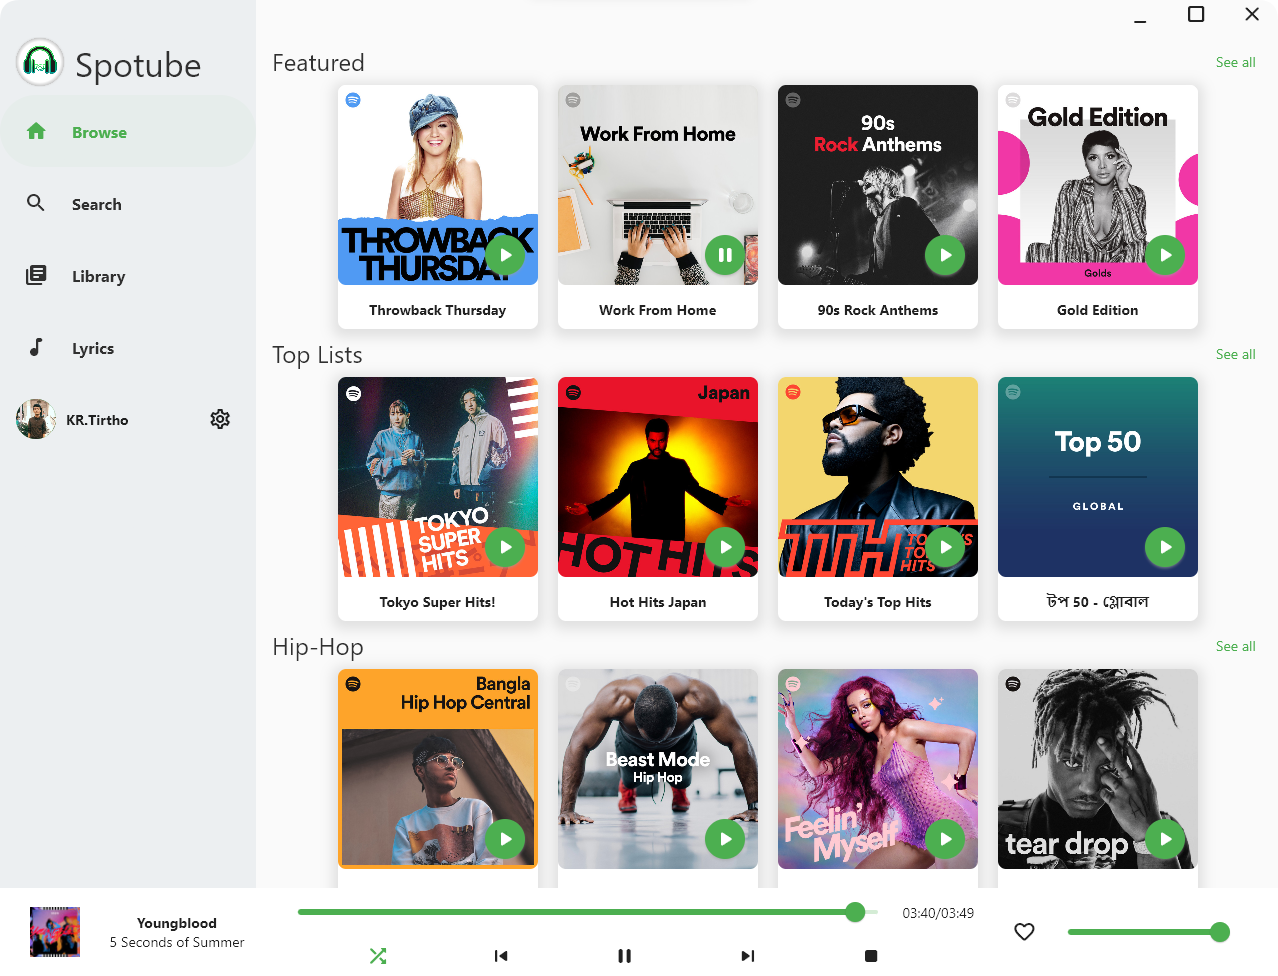
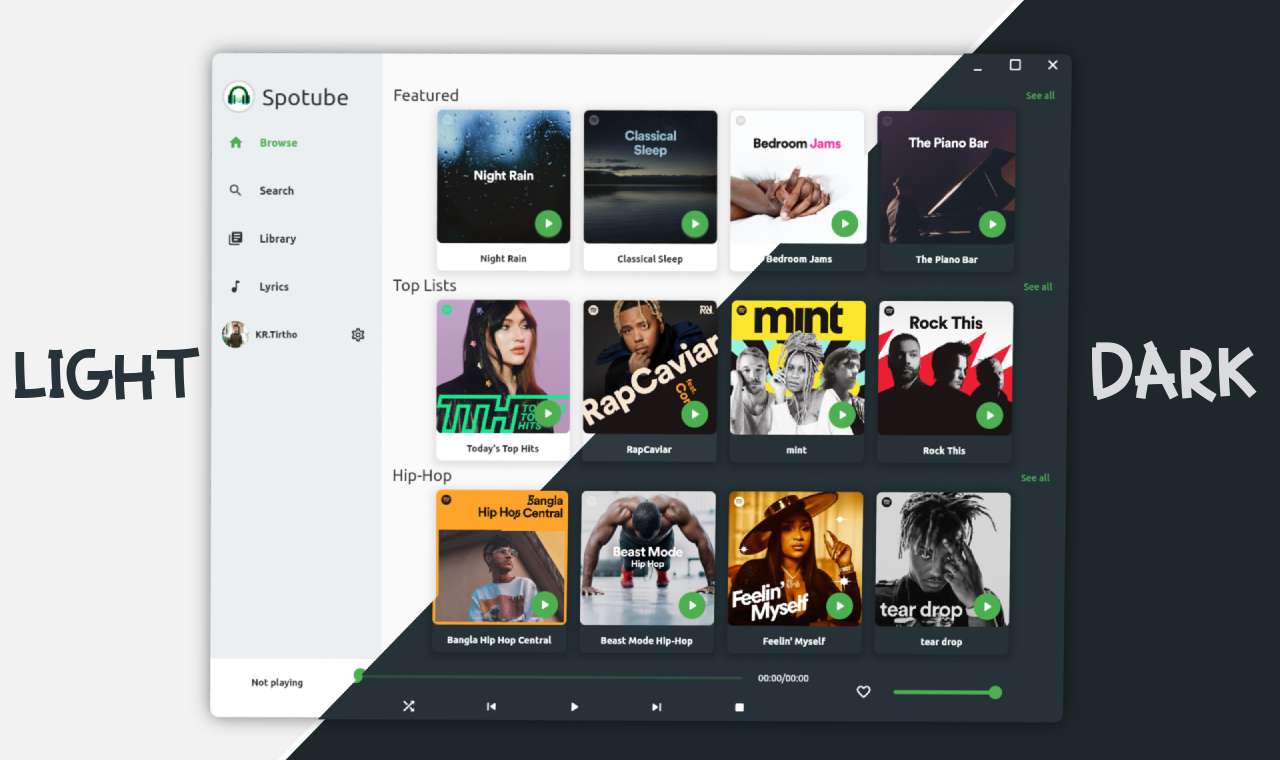
New screentshot & chocolatey install instruction

diff --git a/README.md b/README.md
@@ -27,6 +27,13 @@ All the binaries are located in the [releases](https://github.com/krtirtho/spotu
 
 Download the [setup file](https://github.com/KRTirtho/spotube/releases/download/v1.0.1/Spotube-windows-x86_64-setup.exe) & follow along the installer
 
+### Chocolatey
+
+Run the following command to install Spotube with windows chocolatey package manager
+```powershell
+choco install spotube
+```
+
 ## Linux
 
 ### Ubuntu/Debian/Linux Mint/Pop_!OS:
